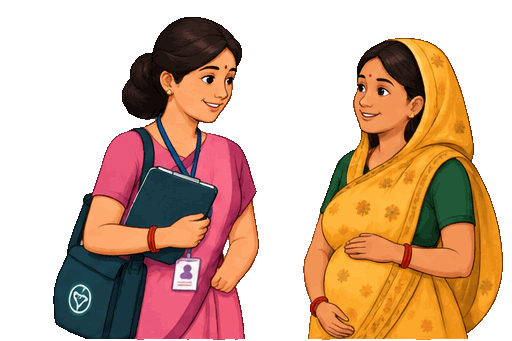
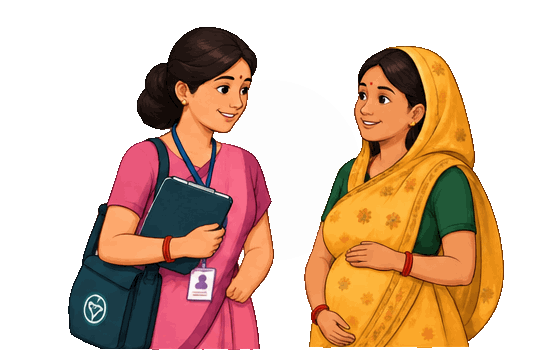
fix(landing): update conversational home visit visual, remove ANC and exaggerated claims

diff --git a/frontend/src/components/AshaHeroIllustration.tsx b/frontend/src/components/AshaHeroIllustration.tsx
@@ -1,5 +1,5 @@
 import React from 'react';
-import { ShieldCheck, Activity, Heart, Sparkles } from 'lucide-react';
+import { ShieldCheck, Activity, Users, Globe2, HeartHandshake } from 'lucide-react';
 import { LanguageCode } from '../types';
 import { getTranslation } from '../i18n';
 
@@ -16,81 +16,95 @@ export const AshaHeroIllustration: React.FC<AshaHeroIllustrationProps> = ({
 }) => {
   const t = getTranslation(language);
 
-  return (
-    <div className={`relative w-full max-w-lg mx-auto select-none ${className}`}>
-      {/* Decorative Warm Ambient Glow */}
-      <div className="absolute -inset-4 bg-gradient-to-tr from-emerald-500/20 via-amber-400/15 to-teal-400/10 rounded-3xl blur-2xl dark:from-emerald-950/40 dark:via-emerald-900/20 dark:to-teal-950/20 pointer-events-none" />
+  // Compact variant for dashboard welcome card
+  if (variant === 'dashboard') {
+    return (
+      <div className={`relative rounded-2xl bg-white/70 dark:bg-dark-surface/60 border border-emerald-100 dark:border-dark-border p-2 shadow-sm max-w-[220px] w-full flex flex-col items-center select-none ${className}`}>
+        <picture className="w-full flex items-center justify-center">
+          <source media="(prefers-reduced-motion: reduce)" srcSet="/assets/asha-healthcare-worker.png" type="image/png" />
+          <img
+            src="/assets/asha-healthcare-worker.gif"
+            alt="ASHA worker visiting a woman for a friendly community health check"
+            className="w-full h-auto max-h-[140px] object-contain drop-shadow-sm"
+            loading="lazy"
+            width={540}
+            height={360}
+          />
+        </picture>
+        <span className="text-[10px] font-bold text-emerald-800 dark:text-emerald-300 mt-1">
+          Community Health Visit
+        </span>
+      </div>
+    );
+  }
 
-      {/* Main Container */}
-      <div className="relative rounded-3xl bg-gradient-to-b from-white/95 to-emerald-50/70 dark:from-dark-card dark:to-dark-surface border border-emerald-100 dark:border-dark-border p-5 sm:p-6 shadow-elevated dark:shadow-darkcard overflow-hidden backdrop-blur-sm">
+  // Full prominent landing page illustration
+  return (
+    <div className={`relative w-full max-w-xl lg:max-w-2xl mx-auto select-none ${className}`}>
+      {/* Decorative Soft Warm Ambient Glow (Mint, Sage, Peach, Cream) */}
+      <div className="absolute -inset-4 bg-gradient-to-tr from-emerald-500/15 via-amber-300/15 to-teal-400/10 rounded-3xl blur-2xl dark:from-emerald-950/30 dark:via-amber-950/15 dark:to-teal-950/20 pointer-events-none" />
+
+      {/* Main Illustration Card Container */}
+      <div className="relative rounded-3xl bg-gradient-to-b from-white/95 via-[#FCFDFB] to-emerald-50/60 dark:from-dark-card dark:via-dark-card dark:to-dark-surface border border-emerald-100/90 dark:border-dark-border p-5 sm:p-7 shadow-elevated dark:shadow-darkcard overflow-hidden backdrop-blur-sm">
         
-        {/* Top Badges Header */}
-        <div className="flex items-center justify-between gap-2 pb-3.5 border-b border-emerald-100/70 dark:border-dark-border">
+        {/* Top Header: Clean, Natural Community Care Message */}
+        <div className="flex items-center justify-between gap-2 pb-4 border-b border-emerald-100/70 dark:border-dark-border">
           <div className="flex items-center space-x-2">
-            <span className="inline-flex items-center px-3 py-1 rounded-full text-xs font-bold bg-emerald-100 text-emerald-800 dark:bg-emerald-950 dark:text-emerald-300 border border-emerald-200/80 dark:border-emerald-800">
-              <Activity className="w-3.5 h-3.5 mr-1.5 text-emerald-600 dark:text-emerald-400 animate-pulse" />
-              <span>{t.heroVisualTag || 'Community Health Visit'}</span>
+            <span className="inline-flex items-center px-3.5 py-1.5 rounded-full text-xs font-bold bg-emerald-100/80 text-emerald-900 dark:bg-emerald-950 dark:text-emerald-300 border border-emerald-200/80 dark:border-emerald-800">
+              <HeartHandshake className="w-3.5 h-3.5 mr-1.5 text-emerald-600 dark:text-emerald-400" />
+              <span>Community Health Visit</span>
             </span>
           </div>
 
-          <div className="flex items-center space-x-2 text-xs font-bold text-emerald-700 dark:text-emerald-400">
-            <span className="px-2 py-0.5 rounded-md bg-emerald-50 dark:bg-emerald-950/80 border border-emerald-200/60 dark:border-emerald-900">
-              Maternal & Child Care
+          <div className="flex items-center space-x-1.5 text-xs font-bold text-emerald-800 dark:text-emerald-300">
+            <span className="px-2.5 py-1 rounded-xl bg-surface-warm dark:bg-dark-surface border border-emerald-100 dark:border-dark-border">
+              Friendly Care at Home
             </span>
           </div>
         </div>
 
-        {/* Central Animated Illustration Area */}
-        <div className="relative my-2 py-2 flex flex-col items-center justify-center">
+        {/* Central Prominent Conversational Illustration */}
+        <div className="relative my-3 py-2 flex flex-col items-center justify-center">
           
-          {/* Picture with Motion Preferences Fallback */}
           <div className="relative w-full flex items-center justify-center">
             <picture className="w-full flex items-center justify-center">
-              {/* If user prefers reduced motion, show high-res static PNG */}
+              {/* Reduced-motion accessibility fallback */}
               <source
                 media="(prefers-reduced-motion: reduce)"
                 srcSet="/assets/asha-healthcare-worker.png"
                 type="image/png"
               />
-              {/* Default: Smooth animated GIF */}
+              {/* Subtle conversational animation */}
               <img
                 src="/assets/asha-healthcare-worker.gif"
-                alt="Friendly ASHA community health worker reviewing maternal health records and interacting with an expectant mother"
-                className="w-full max-h-[300px] sm:max-h-[340px] object-contain drop-shadow-md transition-transform duration-300 hover:scale-[1.02]"
+                alt="ASHA community health worker visiting a woman at her home for a friendly conversational health check"
+                className="w-full max-h-[340px] sm:max-h-[400px] object-contain drop-shadow-md transition-transform duration-300 hover:scale-[1.01]"
                 loading="eager"
-                width={512}
-                height={348}
+                width={540}
+                height={360}
               />
             </picture>
-
-            {/* Subtle Floating Interactive Pill 1: ANC Checkup */}
-            <div className="absolute top-2 left-0 sm:left-2 bg-white/90 dark:bg-dark-card/90 backdrop-blur-md rounded-2xl py-1.5 px-3 border border-emerald-200 dark:border-emerald-800 shadow-sm flex items-center space-x-2 text-xs font-bold text-gray-800 dark:text-white animate-in fade-in">
-              <span className="w-2 h-2 rounded-full bg-emerald-500 animate-ping" />
-              <Heart className="w-3.5 h-3.5 text-pink-500 fill-pink-500" />
-              <span>ANC Checkup</span>
-            </div>
-
-            {/* Subtle Floating Interactive Pill 2: Voice Register */}
-            <div className="absolute bottom-2 right-0 sm:right-2 bg-white/90 dark:bg-dark-card/90 backdrop-blur-md rounded-2xl py-1.5 px-3 border border-amber-200 dark:border-amber-800 shadow-sm flex items-center space-x-2 text-xs font-bold text-amber-900 dark:text-amber-300 animate-in fade-in">
-              <Sparkles className="w-3.5 h-3.5 text-amber-500" />
-              <span>Voice-to-Record</span>
-            </div>
           </div>
+
+          {/* Subtitle Caption Reassuring Friendly Personal Interaction */}
+          <p className="text-center text-xs text-gray-500 dark:text-dark-muted font-medium mt-3 italic">
+            A friendly face-to-face checkup — listening, understanding, and supporting families at home.
+          </p>
         </div>
 
-        {/* Bottom Feature Highlights Bar */}
-        <div className="pt-3 border-t border-emerald-100/70 dark:border-dark-border grid grid-cols-2 gap-2 text-xs">
-          <div className="flex items-center space-x-2 p-2 rounded-xl bg-white/80 dark:bg-dark-surface/60 border border-emerald-100/60 dark:border-dark-border">
-            <ShieldCheck className="w-4 h-4 text-emerald-600 shrink-0" />
+        {/* Bottom Capabilities Bar: Accurate, Non-Exaggerated Descriptions */}
+        <div className="pt-3.5 border-t border-emerald-100/70 dark:border-dark-border grid grid-cols-1 sm:grid-cols-2 gap-2 text-xs">
+          <div className="flex items-center space-x-2 p-2.5 rounded-xl bg-white/80 dark:bg-dark-surface/60 border border-emerald-100/60 dark:border-dark-border shadow-2xs">
+            <ShieldCheck className="w-4 h-4 text-emerald-600 dark:text-emerald-400 shrink-0" />
             <span className="font-semibold text-gray-700 dark:text-dark-muted">
-              100% Offline Capable
+              Offline-friendly record keeping
             </span>
           </div>
 
-          <div className="flex items-center space-x-2 p-2 rounded-xl bg-white/80 dark:bg-dark-surface/60 border border-emerald-100/60 dark:border-dark-border">
-            <span className="w-2 h-2 rounded-full bg-emerald-500 shrink-0" />
+          <div className="flex items-center space-x-2 p-2.5 rounded-xl bg-white/80 dark:bg-dark-surface/60 border border-emerald-100/60 dark:border-dark-border shadow-2xs">
+            <Globe2 className="w-4 h-4 text-emerald-600 dark:text-emerald-400 shrink-0" />
             <span className="font-semibold text-gray-700 dark:text-dark-muted">
-              4 Regional Languages
+              Multilingual voice assistance
             </span>
           </div>
         </div>

diff --git a/frontend/src/pages/LandingPage.tsx b/frontend/src/pages/LandingPage.tsx
@@ -224,8 +224,8 @@ export const LandingPage: React.FC<LandingPageProps> = ({
         <div className="max-w-7xl mx-auto px-4 sm:px-6 lg:px-8">
           <div className="grid grid-cols-1 lg:grid-cols-12 gap-12 lg:gap-8 items-center">
             
-            {/* Left Content Column (7 cols) */}
-            <div className="lg:col-span-7 space-y-6 text-center lg:text-left">
+            {/* Left Content Column (6 cols on large screens) */}
+            <div className="lg:col-span-6 space-y-6 text-center lg:text-left">
               
               {/* Product Badge */}
               <div className="inline-flex items-center space-x-2 px-4 py-1.5 rounded-full bg-emerald-100/80 dark:bg-emerald-950/70 border border-emerald-200 dark:border-emerald-800 text-xs sm:text-sm font-semibold text-emerald-900 dark:text-emerald-300">
@@ -243,7 +243,7 @@ export const LandingPage: React.FC<LandingPageProps> = ({
 
               {/* Supporting Text */}
               <p className="text-lg sm:text-xl text-gray-600 dark:text-dark-muted max-w-2xl mx-auto lg:mx-0 leading-relaxed font-normal">
-                {t.heroSupportingText}
+                {t.heroSupportingText || 'Bringing compassionate healthcare closer to every home, one conversation at a time.'}
               </p>
 
               {/* CTA Buttons */}
@@ -265,32 +265,32 @@ export const LandingPage: React.FC<LandingPageProps> = ({
                 </button>
               </div>
 
-              {/* Key Trust Signals */}
-              <div className="pt-6 border-t border-gray-200/80 dark:border-dark-border grid grid-cols-3 gap-2 sm:gap-4 max-w-lg mx-auto lg:mx-0 text-left">
+              {/* Key Trust Signals: Accurate, Non-Exaggerated Capabilities */}
+              <div className="pt-6 border-t border-gray-200/80 dark:border-dark-border grid grid-cols-1 sm:grid-cols-3 gap-3 max-w-lg mx-auto lg:mx-0 text-left">
                 <div className="flex items-center space-x-2">
-                  <CheckCircle2 className="w-5 h-5 text-health-primary shrink-0" />
-                  <span className="text-xs sm:text-sm font-semibold text-gray-700 dark:text-dark-muted">
-                    No Typing
+                  <CheckCircle2 className="w-4 h-4 text-health-primary shrink-0" />
+                  <span className="text-xs font-semibold text-gray-700 dark:text-dark-muted">
+                    Voice-first capture
                   </span>
                 </div>
                 <div className="flex items-center space-x-2">
-                  <WifiOff className="w-5 h-5 text-health-primary shrink-0" />
-                  <span className="text-xs sm:text-sm font-semibold text-gray-700 dark:text-dark-muted">
-                    Offline First
+                  <WifiOff className="w-4 h-4 text-health-primary shrink-0" />
+                  <span className="text-xs font-semibold text-gray-700 dark:text-dark-muted">
+                    Offline-friendly
                   </span>
                 </div>
                 <div className="flex items-center space-x-2">
-                  <Globe2 className="w-5 h-5 text-health-primary shrink-0" />
-                  <span className="text-xs sm:text-sm font-semibold text-gray-700 dark:text-dark-muted">
-                    4 Languages
+                  <Globe2 className="w-4 h-4 text-health-primary shrink-0" />
+                  <span className="text-xs font-semibold text-gray-700 dark:text-dark-muted">
+                    Multilingual voice
                   </span>
                 </div>
               </div>
 
             </div>
 
-            {/* Right Visual Column (5 cols) */}
-            <div className="lg:col-span-5 flex justify-center">
+            {/* Right Visual Column (6 cols on large screens) */}
+            <div className="lg:col-span-6 flex justify-center items-center">
               <AshaHeroIllustration language={language} />
             </div>
 

diff --git a/frontend/src/i18n/languages/hi.ts b/frontend/src/i18n/languages/hi.ts
@@ -189,13 +189,13 @@ export const hi: TranslationSchema = {
   heroBadge: 'भारत के लिए आवाज-आधारित स्वास्थ्य रजिस्टर',
   heroHeadline: 'कागजी काम कम।',
   heroHeadlineSub: 'मरीज़ों की देखभाल ज्यादा।',
-  heroSupportingText: 'आशा आवाज़ सामुदायिक स्वास्थ्य कार्यकर्ताओं को अपनी भाषा में केवल बोलकर मरीज़ों की बातचीत को डिजिटल स्वास्थ्य रजिस्टर में बदलने में मदद करती है।',
+  heroSupportingText: 'हर बातचीत के साथ, हर घर तक संवेदनशील स्वास्थ्य सेवा पहुँचाना। कागजी काम कम, देखभाल ज्यादा।',
   heroCtaPrimary: 'शुरू करें',
   heroCtaSecondary: 'काम करने का तरीका देखें',
-  heroVisualTag: 'आवाज-सक्रिय फील्ड रजिस्टर',
-  heroCardPreviewTitle: 'सुनीता देवी (7वां महीना एएनसी)',
-  heroCardPreviewSubtitle: 'बीपी: 150/100 • पैरों में सूजन',
-  heroCardPreviewDanger: 'खतरे की चेतावनी: प्री-एक्लेम्पसिया संकेत',
+  heroVisualTag: 'सामुदायिक स्वास्थ्य विज़िट',
+  heroCardPreviewTitle: 'घर पर आत्मीय स्वास्थ्य संवाद',
+  heroCardPreviewSubtitle: 'नियमित स्वास्थ्य जांच और सहज बातचीत',
+  heroCardPreviewDanger: 'संवेदनशील देखभाल: घर पर स्वास्थ्य आवश्यकताओं को समझना',
 
   // Landing Page - How It Works
   howItWorksBadge: '3 आसान चरण',

diff --git a/frontend/src/i18n/languages/ta.ts b/frontend/src/i18n/languages/ta.ts
@@ -189,13 +189,13 @@ export const ta: TranslationSchema = {
   heroBadge: 'பாரதத்திற்கான குரல்வழி சுகாதார பதிவேடு',
   heroHeadline: 'காகிதப் பணி குறைவு.',
   heroHeadlineSub: 'மக்களுக்கு அதிக கவனிப்பு.',
-  heroSupportingText: 'ஆஷா பணியாளர்கள் தங்கள் சொந்த மொழியில் பேசி, அன்றாட மருத்துவ விவரங்களை எளிதாக டிஜிட்டல் பதிவேடாக மாற்ற ஆஷா ஆவாஸ் உதவுகிறது.',
+  heroSupportingText: 'ஒவ்வொரு உரையாடலின் மூலமும் அன்பான சுகாதார சேவையை ஒவ்வொரு வீட்டிற்கும் கொண்டு சேர்த்தல்.',
   heroCtaPrimary: 'தொடங்கவும்',
   heroCtaSecondary: 'செயல்முறை விளக்கம்',
-  heroVisualTag: 'குரல்வழி களப் பதிவேடு',
-  heroCardPreviewTitle: 'சுனிதா தேவி (7வது மாதம் கர்ப்பிணி)',
-  heroCardPreviewSubtitle: 'பிபி: 150/100 • கால்களில் வீக்கம்',
-  heroCardPreviewDanger: 'அபாய எச்சரிக்கை: பிரீக்ளாம்சியா அறிகுறிகள்',
+  heroVisualTag: 'சமூக சுகாதார சந்திப்பு',
+  heroCardPreviewTitle: 'வீட்டில் தோழமையான சுகாதார உரையாடல்',
+  heroCardPreviewSubtitle: 'வழக்கமான நல்வாழ்வு பரிசோதனை',
+  heroCardPreviewDanger: 'கரிசனமிக்க கவனிப்பு: இல்லத்தில் சுகாதார தேவைகளை அறிதல்',
 
   // Landing Page - How It Works
   howItWorksBadge: '3 எளிய படிகள்',

diff --git a/frontend/src/i18n/languages/bho.ts b/frontend/src/i18n/languages/bho.ts
@@ -189,13 +189,13 @@ export const bho: TranslationSchema = {
   heroBadge: 'भारत खातिर आवाज से चले वाला स्वास्थ्य रजिस्टर',
   heroHeadline: 'कागजी काम कम।',
   heroHeadlineSub: 'देखभाल ढेर।',
-  heroSupportingText: 'आशा आवाज़ हमनी के आशा दीदी लोग के आपन बोली में बोलके मरीज के रिकॉर्ड डिजिटल रजिस्टर में सहेजे में मदद करेला।',
+  heroSupportingText: 'हर गोठ-बात से, गाँव के हर घर ले अपनत्व से भरल स्वास्थ्य सेवा पहुँचावल।',
   heroCtaPrimary: 'शुरू करीं',
   heroCtaSecondary: 'कइसे काम करेला देखीं',
-  heroVisualTag: 'आवाज से चले वाला फील्ड रजिस्टर',
-  heroCardPreviewTitle: 'सुनीता देवी (7 महीना के गर्भवती)',
-  heroCardPreviewSubtitle: 'बीपी: 150/100 • गोड़ में सूजन',
-  heroCardPreviewDanger: 'खतरा के घंटी: प्री-एक्लेम्पसिया के लक्षण',
+  heroVisualTag: 'सामुदायिक स्वास्थ्य विज़िट',
+  heroCardPreviewTitle: 'घर पर सहज स्वास्थ्य बात-चीत',
+  heroCardPreviewSubtitle: 'रोजाना के जांच आ सहज सहारा',
+  heroCardPreviewDanger: 'आत्मीय देखभाल: घर पर सेहत के जरूरत समझल',
 
   // Landing Page - How It Works
   howItWorksBadge: '3 आसान डग',

diff --git a/frontend/src/components/AuthenticatedDashboard.tsx b/frontend/src/components/AuthenticatedDashboard.tsx
@@ -31,6 +31,7 @@ import { LocalVisitRecord, LanguageCode } from '../types';
 import { WorkerUser } from '../services/auth';
 import { getTranslation } from '../i18n';
 import { db } from '../db/dexie';
+import { AshaHeroIllustration } from './AshaHeroIllustration';
 
 interface AuthenticatedDashboardProps {
   language: LanguageCode;
@@ -211,22 +212,7 @@ export const AuthenticatedDashboard: React.FC<AuthenticatedDashboardProps> = ({
 
           {/* Right Column: Healthcare Artwork Card */}
           <div className="md:col-span-4 flex justify-center md:justify-end">
-            <div className="relative rounded-2xl bg-white/70 dark:bg-dark-surface/60 border border-emerald-100 dark:border-dark-border p-2 shadow-sm max-w-[220px] w-full flex flex-col items-center">
-              <picture className="w-full flex items-center justify-center">
-                <source media="(prefers-reduced-motion: reduce)" srcSet="/assets/asha-healthcare-worker.png" type="image/png" />
-                <img
-                  src="/assets/asha-healthcare-worker.gif"
-                  alt="ASHA worker interacting with expectant mother"
-                  className="w-full h-auto max-h-[140px] object-contain drop-shadow-sm"
-                  loading="lazy"
-                  width={512}
-                  height={348}
-                />
-              </picture>
-              <span className="text-[10px] font-bold text-emerald-800 dark:text-emerald-300 mt-1">
-                ASHA Maternal Care
-              </span>
-            </div>
+            <AshaHeroIllustration variant="dashboard" language={language} />
           </div>
         </div>
       </section>

diff --git a/frontend/src/i18n/languages/en.ts b/frontend/src/i18n/languages/en.ts
@@ -189,13 +189,13 @@ export const en: TranslationSchema = {
   heroBadge: 'Voice-First Healthcare Register for Bharat',
   heroHeadline: 'Less paperwork.',
   heroHeadlineSub: 'More care.',
-  heroSupportingText: 'ASHA Awaaz helps community health workers turn everyday patient conversations into organized healthcare records — simply by speaking in their own language.',
+  heroSupportingText: 'Bringing compassionate healthcare closer to every home, one conversation at a time.',
   heroCtaPrimary: 'Get Started',
   heroCtaSecondary: 'See How It Works',
-  heroVisualTag: 'Voice-Activated Field Register',
-  heroCardPreviewTitle: 'Sunita Devi (7th Month ANC)',
-  heroCardPreviewSubtitle: 'BP: 150/100 mmHg • Swelling in feet',
-  heroCardPreviewDanger: 'High Risk Alert: Preeclampsia signs detected',
+  heroVisualTag: 'Community Health Visit',
+  heroCardPreviewTitle: 'Friendly Home Health Visit',
+  heroCardPreviewSubtitle: 'Routine wellness check and supportive conversation',
+  heroCardPreviewDanger: 'Attentive Care: Understanding health needs at home',
 
   // Landing Page - How It Works
   howItWorksBadge: 'Simple 3-Step Workflow',
